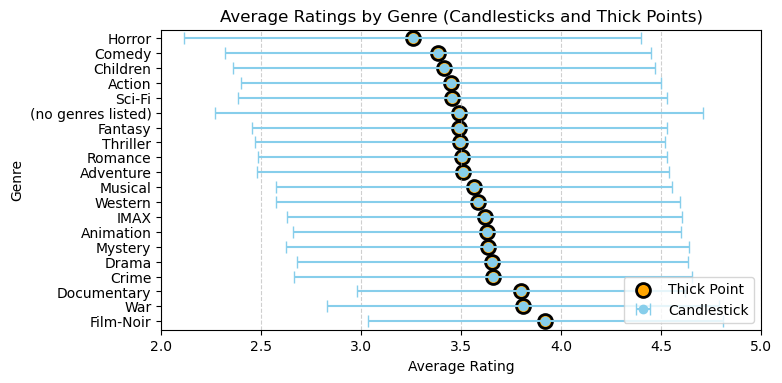
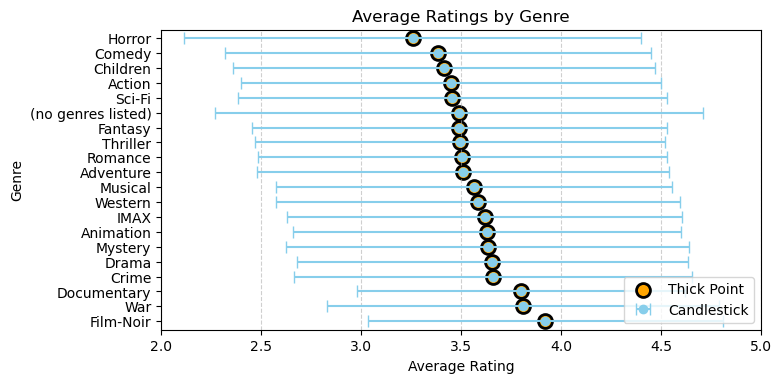
feat: data exploration

Changed region(s): [[0.2762, 0.0287, 0.89, 0.0574]]

diff --git a/reports/chapters/data.tex b/reports/chapters/data.tex
@@ -1,33 +1,67 @@
 \section{Data Analysis}
-Here goes data analysis.
+During the solution of this assignment I will not consider any additional data
+sources, or external datasets. Consequently, I will use only the provided
+MovieLens-100k dataset.
+
+While the dataset contains a lot of additional metadata, I will use only the
+most important fracture of it to build the analysis and solution for the given
+task.
+
+First and foremost, we can consider the genres of the movies in the dataset as
+depicted on figure~\ref{fig:dataanalysis:genre_distr}.
 
 \begin{minipage}{\linewidth}
     \centering% 
-    \includegraphics[scale=0.35]{assets/genre_distribution.png}% 
+    \includegraphics[scale=0.3]{assets/genre_distribution.png}% 
     \figcaption{Genres distribution}% 
     \label{fig:dataanalysis:genre_distr}% 
 \end{minipage}
 
-\begin{minipage}{\linewidth}
-    \centering% 
-    \includegraphics[scale=0.35]{assets/genre_rating.png}% 
-    \figcaption{Genres correlation heatmap}% 
-    \label{fig:dataanalysis:avg_genre_ratings}% 
-\end{minipage}
+We can conclude, that the dataset is pretty imbalanced, which is itself a
+problem. It is safe to assume that this distribution of the movies will affect
+the final predictions of the solution. For instance, most probably the model
+will try to propose dramas and it will be difficult to derive useful Noir
+recommendations. For the sake of simplicity, I will ignore the imbalance.
 
 \begin{minipage}{\linewidth}
     \centering% 
-    \includegraphics[scale=0.35]{assets/average_ratings_pretty.png}% 
+    \includegraphics[scale=0.3]{assets/genre_rating.png}% 
+    \figcaption{Average raiting by genre}% 
+    \label{fig:dataanalysis:avg_genre_ratings}% 
+\end{minipage}
+
+Moreover, from figure~\ref{fig:dataanalysis:avg_genre_ratings} we can derive,
+that popularity of the genre does not necessarily mean it's quality. For
+instance, if we will consider comedy, which is the second popular genre, it's
+overall rating is the second from the bottom. It represents the difficulty the
+recommender system has to overcome. Learning the preferences is not enough as
+general genre recommendation will lead to poor results.
+
+\begin{minipage}{\linewidth}
+    \centering% 
+    \includegraphics[scale=0.3]{assets/average_ratings_pretty.png}% 
     \figcaption{Average movie ratings}% 
     \label{fig:dataanalysis:avg_movie_ratings}% 
 \end{minipage}
 
+From user rating on figure~\ref{fig:dataanalysis:avg_movie_ratings} we can
+learn interesting properties as well. For instance, the rating distribution
+seem to be normal except some outliers. But these outlieres are not random as
+well. They tend to reflect that users prefer to give \textit{pretty} numbers as
+ratings. For instance, integer numbers, or half-numbers like \(1.5\) or
+\(2.5\).
+
 \begin{minipage}{\linewidth}
     \centering% 
-    \includegraphics[scale=0.33]{assets/genre_candle_rating.png}% 
+    \includegraphics[scale=0.3]{assets/genre_candle_rating.png}% 
     \figcaption{Genres rating candles}% 
     \label{fig:dataanalysis:rating_candles}% 
 \end{minipage}
+
+Moreover, candlesticks plots show that while Film-Noir tends to be very rare
+genre, even lowest ratings are high. However, the horror movies tend to have
+very large ratings gap. Even though most of the grades are relatively low,
+leading to low average.
 
 \begin{multicols*}{2}
 \end{multicols*}
@@ -38,4 +72,20 @@ Here goes data analysis.
     \figcaption{Average genre ratings}% 
     \label{fig:dataanalysis:correlation}% 
 \end{minipage}
+
+Finally, we can consider the correlation data of the genres. This data mostly
+reflects how the genres work along with each other. For instance, if a movie is
+a comedy, it is most probably not a thriller, as well as children movies most
+often tend to be animation.
+
+The correlation data may seem redundant. However, carefully incorporating these
+properties into the model, we can try to learn the correlation. For instance,
+if a user prefers comedy a lot, most probably model should not recommend
+thrillers a lot.
+
+Finally, successfully learning the properties we discovered in the data, we can
+properly build the model, learning these patterns and improving overall
+performance. Consequently, we can proceed to the model implementation in the
+next chapter.
+
 \begin{multicols*}{2}
